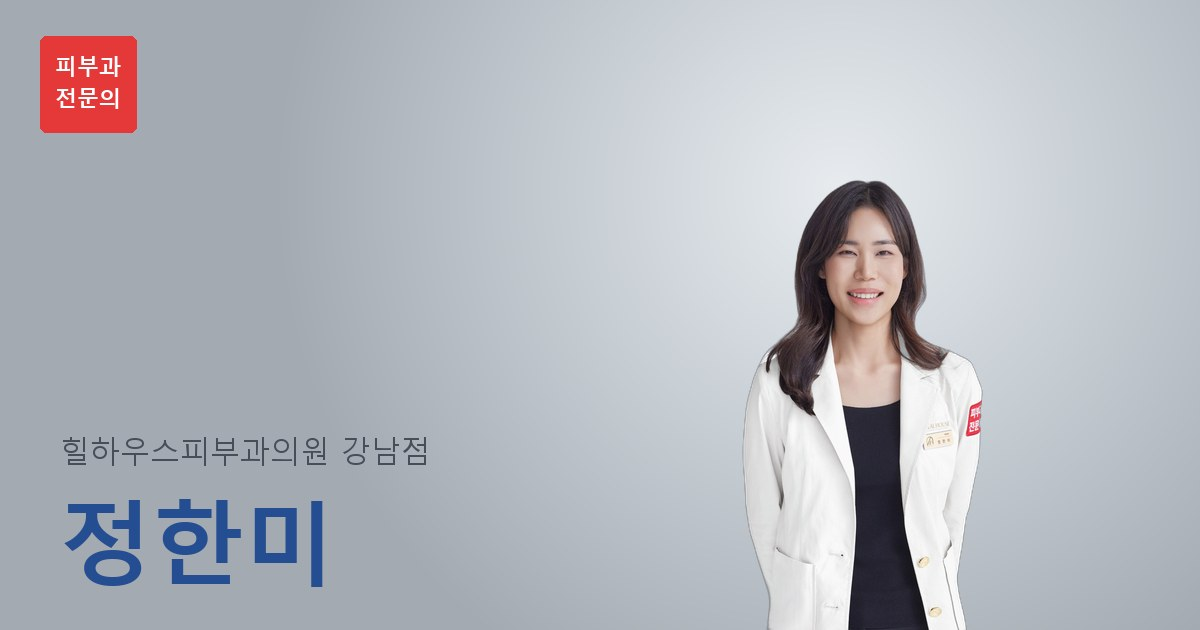
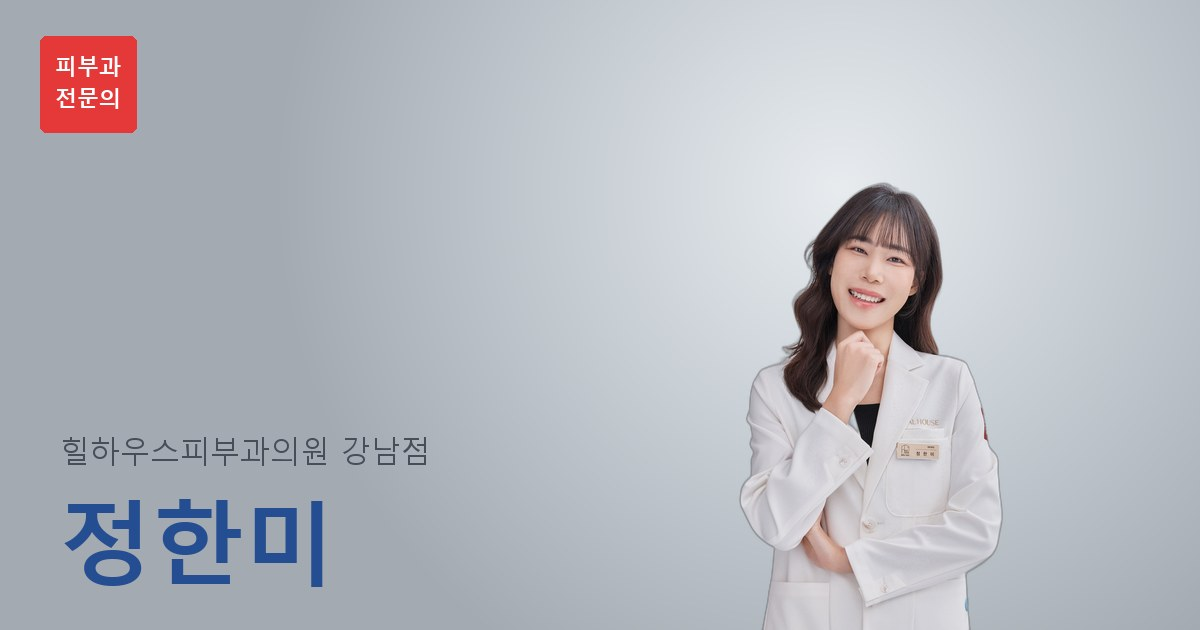
정한미 원장 새 프로필 사진 적용 + 캐시 버전 bx

Changed region(s): [[0.6167, 0.2714, 0.8325, 1.0]]

diff --git a/index.html b/index.html
@@ -40,7 +40,7 @@
   <link href="https://fonts.googleapis.com/css2?family=Noto+Sans+KR:wght@300;400;500;600;700;800&display=swap" rel="stylesheet">
   <link rel="stylesheet" href="https://unpkg.com/leaflet@1.9.4/dist/leaflet.css" />
   <link rel="stylesheet" href="https://cdnjs.cloudflare.com/ajax/libs/font-awesome/6.5.1/css/all.min.css" />
-  <link rel="stylesheet" href="css/style.css?v=20260501bw">
+  <link rel="stylesheet" href="css/style.css?v=20260501bx">
 
   <!-- 6. 구조화된 데이터 (JSON-LD) - WebSite & MedicalOrganization 통합 -->
   <script type="application/ld+json">
@@ -119,6 +119,6 @@
   </footer>
 
   <script src="https://unpkg.com/leaflet@1.9.4/dist/leaflet.js"></script>
-  <script src="js/app.js?v=20260501bw"></script>
+  <script src="js/app.js?v=20260501bx"></script>
 </body>
 </html>

diff --git a/clinic/foret/index.html b/clinic/foret/index.html
@@ -40,7 +40,7 @@
   <link href="https://fonts.googleapis.com/css2?family=Noto+Sans+KR:wght@300;400;500;600;700;800&display=swap" rel="stylesheet">
   <link rel="stylesheet" href="https://unpkg.com/leaflet@1.9.4/dist/leaflet.css" />
   <link rel="stylesheet" href="https://cdnjs.cloudflare.com/ajax/libs/font-awesome/6.5.1/css/all.min.css" />
-  <link rel="stylesheet" href="css/style.css?v=20260501bw">
+  <link rel="stylesheet" href="css/style.css?v=20260501bx">
 
   <!-- 6. 구조화된 데이터 (JSON-LD) - MedicalBusiness + BreadcrumbList -->
   <script type="application/ld+json">
@@ -114,6 +114,6 @@
   </footer>
 
   <script src="https://unpkg.com/leaflet@1.9.4/dist/leaflet.js"></script>
-  <script src="js/app.js?v=20260501bw"></script>
+  <script src="js/app.js?v=20260501bx"></script>
 </body>
 </html>

diff --git a/clinic/healhouse-gangnam/index.html b/clinic/healhouse-gangnam/index.html
@@ -40,7 +40,7 @@
   <link href="https://fonts.googleapis.com/css2?family=Noto+Sans+KR:wght@300;400;500;600;700;800&display=swap" rel="stylesheet">
   <link rel="stylesheet" href="https://unpkg.com/leaflet@1.9.4/dist/leaflet.css" />
   <link rel="stylesheet" href="https://cdnjs.cloudflare.com/ajax/libs/font-awesome/6.5.1/css/all.min.css" />
-  <link rel="stylesheet" href="css/style.css?v=20260501bw">
+  <link rel="stylesheet" href="css/style.css?v=20260501bx">
 
   <!-- 6. 구조화된 데이터 (JSON-LD) - MedicalBusiness + BreadcrumbList -->
   <script type="application/ld+json">
@@ -114,6 +114,6 @@
   </footer>
 
   <script src="https://unpkg.com/leaflet@1.9.4/dist/leaflet.js"></script>
-  <script src="js/app.js?v=20260501bw"></script>
+  <script src="js/app.js?v=20260501bx"></script>
 </body>
 </html>

diff --git a/clinic/hev-sinsa/index.html b/clinic/hev-sinsa/index.html
@@ -40,7 +40,7 @@
   <link href="https://fonts.googleapis.com/css2?family=Noto+Sans+KR:wght@300;400;500;600;700;800&display=swap" rel="stylesheet">
   <link rel="stylesheet" href="https://unpkg.com/leaflet@1.9.4/dist/leaflet.css" />
   <link rel="stylesheet" href="https://cdnjs.cloudflare.com/ajax/libs/font-awesome/6.5.1/css/all.min.css" />
-  <link rel="stylesheet" href="css/style.css?v=20260501bw">
+  <link rel="stylesheet" href="css/style.css?v=20260501bx">
 
   <!-- 6. 구조화된 데이터 (JSON-LD) - MedicalBusiness + BreadcrumbList -->
   <script type="application/ld+json">
@@ -114,6 +114,6 @@
   </footer>
 
   <script src="https://unpkg.com/leaflet@1.9.4/dist/leaflet.js"></script>
-  <script src="js/app.js?v=20260501bw"></script>
+  <script src="js/app.js?v=20260501bx"></script>
 </body>
 </html>

diff --git a/clinic/human-pyeongtaek/index.html b/clinic/human-pyeongtaek/index.html
@@ -40,7 +40,7 @@
   <link href="https://fonts.googleapis.com/css2?family=Noto+Sans+KR:wght@300;400;500;600;700;800&display=swap" rel="stylesheet">
   <link rel="stylesheet" href="https://unpkg.com/leaflet@1.9.4/dist/leaflet.css" />
   <link rel="stylesheet" href="https://cdnjs.cloudflare.com/ajax/libs/font-awesome/6.5.1/css/all.min.css" />
-  <link rel="stylesheet" href="css/style.css?v=20260501bw">
+  <link rel="stylesheet" href="css/style.css?v=20260501bx">
 
   <!-- 6. 구조화된 데이터 (JSON-LD) - MedicalBusiness + BreadcrumbList -->
   <script type="application/ld+json">
@@ -114,6 +114,6 @@
   </footer>
 
   <script src="https://unpkg.com/leaflet@1.9.4/dist/leaflet.js"></script>
-  <script src="js/app.js?v=20260501bw"></script>
+  <script src="js/app.js?v=20260501bx"></script>
 </body>
 </html>

diff --git a/clinic/vos/index.html b/clinic/vos/index.html
@@ -40,7 +40,7 @@
   <link href="https://fonts.googleapis.com/css2?family=Noto+Sans+KR:wght@300;400;500;600;700;800&display=swap" rel="stylesheet">
   <link rel="stylesheet" href="https://unpkg.com/leaflet@1.9.4/dist/leaflet.css" />
   <link rel="stylesheet" href="https://cdnjs.cloudflare.com/ajax/libs/font-awesome/6.5.1/css/all.min.css" />
-  <link rel="stylesheet" href="css/style.css?v=20260501bw">
+  <link rel="stylesheet" href="css/style.css?v=20260501bx">
 
   <!-- 6. 구조화된 데이터 (JSON-LD) - MedicalBusiness + BreadcrumbList -->
   <script type="application/ld+json">
@@ -114,6 +114,6 @@
   </footer>
 
   <script src="https://unpkg.com/leaflet@1.9.4/dist/leaflet.js"></script>
-  <script src="js/app.js?v=20260501bw"></script>
+  <script src="js/app.js?v=20260501bx"></script>
 </body>
 </html>

diff --git a/dermatologist/bae-jungmin/index.html b/dermatologist/bae-jungmin/index.html
@@ -40,7 +40,7 @@
   <link href="https://fonts.googleapis.com/css2?family=Noto+Sans+KR:wght@300;400;500;600;700;800&display=swap" rel="stylesheet">
   <link rel="stylesheet" href="https://unpkg.com/leaflet@1.9.4/dist/leaflet.css" />
   <link rel="stylesheet" href="https://cdnjs.cloudflare.com/ajax/libs/font-awesome/6.5.1/css/all.min.css" />
-  <link rel="stylesheet" href="css/style.css?v=20260501bw">
+  <link rel="stylesheet" href="css/style.css?v=20260501bx">
 
   <!-- 6. 구조화된 데이터 (JSON-LD) - Physician + BreadcrumbList -->
   <script type="application/ld+json">
@@ -106,6 +106,6 @@
   </footer>
 
   <script src="https://unpkg.com/leaflet@1.9.4/dist/leaflet.js"></script>
-  <script src="js/app.js?v=20260501bw"></script>
+  <script src="js/app.js?v=20260501bx"></script>
 </body>
 </html>

diff --git a/dermatologist/gye-jiwon/index.html b/dermatologist/gye-jiwon/index.html
@@ -40,7 +40,7 @@
   <link href="https://fonts.googleapis.com/css2?family=Noto+Sans+KR:wght@300;400;500;600;700;800&display=swap" rel="stylesheet">
   <link rel="stylesheet" href="https://unpkg.com/leaflet@1.9.4/dist/leaflet.css" />
   <link rel="stylesheet" href="https://cdnjs.cloudflare.com/ajax/libs/font-awesome/6.5.1/css/all.min.css" />
-  <link rel="stylesheet" href="css/style.css?v=20260501bw">
+  <link rel="stylesheet" href="css/style.css?v=20260501bx">
 
   <!-- 6. 구조화된 데이터 (JSON-LD) - Physician + BreadcrumbList -->
   <script type="application/ld+json">
@@ -106,6 +106,6 @@
   </footer>
 
   <script src="https://unpkg.com/leaflet@1.9.4/dist/leaflet.js"></script>
-  <script src="js/app.js?v=20260501bw"></script>
+  <script src="js/app.js?v=20260501bx"></script>
 </body>
 </html>

diff --git a/dermatologist/jung-hanmi/index.html b/dermatologist/jung-hanmi/index.html
@@ -40,7 +40,7 @@
   <link href="https://fonts.googleapis.com/css2?family=Noto+Sans+KR:wght@300;400;500;600;700;800&display=swap" rel="stylesheet">
   <link rel="stylesheet" href="https://unpkg.com/leaflet@1.9.4/dist/leaflet.css" />
   <link rel="stylesheet" href="https://cdnjs.cloudflare.com/ajax/libs/font-awesome/6.5.1/css/all.min.css" />
-  <link rel="stylesheet" href="css/style.css?v=20260501bw">
+  <link rel="stylesheet" href="css/style.css?v=20260501bx">
 
   <!-- 6. 구조화된 데이터 (JSON-LD) - Physician + BreadcrumbList -->
   <script type="application/ld+json">
@@ -106,6 +106,6 @@
   </footer>
 
   <script src="https://unpkg.com/leaflet@1.9.4/dist/leaflet.js"></script>
-  <script src="js/app.js?v=20260501bw"></script>
+  <script src="js/app.js?v=20260501bx"></script>
 </body>
 </html>

diff --git a/dermatologist/jung-jongheon/index.html b/dermatologist/jung-jongheon/index.html
@@ -40,7 +40,7 @@
   <link href="https://fonts.googleapis.com/css2?family=Noto+Sans+KR:wght@300;400;500;600;700;800&display=swap" rel="stylesheet">
   <link rel="stylesheet" href="https://unpkg.com/leaflet@1.9.4/dist/leaflet.css" />
   <link rel="stylesheet" href="https://cdnjs.cloudflare.com/ajax/libs/font-awesome/6.5.1/css/all.min.css" />
-  <link rel="stylesheet" href="css/style.css?v=20260501bw">
+  <link rel="stylesheet" href="css/style.css?v=20260501bx">
 
   <!-- 6. 구조화된 데이터 (JSON-LD) - Physician + BreadcrumbList -->
   <script type="application/ld+json">
@@ -106,6 +106,6 @@
   </footer>
 
   <script src="https://unpkg.com/leaflet@1.9.4/dist/leaflet.js"></script>
-  <script src="js/app.js?v=20260501bw"></script>
+  <script src="js/app.js?v=20260501bx"></script>
 </body>
 </html>

diff --git a/dermatologist/kim-hongseok/index.html b/dermatologist/kim-hongseok/index.html
@@ -40,7 +40,7 @@
   <link href="https://fonts.googleapis.com/css2?family=Noto+Sans+KR:wght@300;400;500;600;700;800&display=swap" rel="stylesheet">
   <link rel="stylesheet" href="https://unpkg.com/leaflet@1.9.4/dist/leaflet.css" />
   <link rel="stylesheet" href="https://cdnjs.cloudflare.com/ajax/libs/font-awesome/6.5.1/css/all.min.css" />
-  <link rel="stylesheet" href="css/style.css?v=20260501bw">
+  <link rel="stylesheet" href="css/style.css?v=20260501bx">
 
   <!-- 6. 구조화된 데이터 (JSON-LD) - Physician + BreadcrumbList -->
   <script type="application/ld+json">
@@ -106,6 +106,6 @@
   </footer>
 
   <script src="https://unpkg.com/leaflet@1.9.4/dist/leaflet.js"></script>
-  <script src="js/app.js?v=20260501bw"></script>
+  <script src="js/app.js?v=20260501bx"></script>
 </body>
 </html>

diff --git a/dermatologist/lee-haeun/index.html b/dermatologist/lee-haeun/index.html
@@ -40,7 +40,7 @@
   <link href="https://fonts.googleapis.com/css2?family=Noto+Sans+KR:wght@300;400;500;600;700;800&display=swap" rel="stylesheet">
   <link rel="stylesheet" href="https://unpkg.com/leaflet@1.9.4/dist/leaflet.css" />
   <link rel="stylesheet" href="https://cdnjs.cloudflare.com/ajax/libs/font-awesome/6.5.1/css/all.min.css" />
-  <link rel="stylesheet" href="css/style.css?v=20260501bw">
+  <link rel="stylesheet" href="css/style.css?v=20260501bx">
 
   <!-- 6. 구조화된 데이터 (JSON-LD) - Physician + BreadcrumbList -->
   <script type="application/ld+json">
@@ -106,6 +106,6 @@
   </footer>
 
   <script src="https://unpkg.com/leaflet@1.9.4/dist/leaflet.js"></script>
-  <script src="js/app.js?v=20260501bw"></script>
+  <script src="js/app.js?v=20260501bx"></script>
 </body>
 </html>
